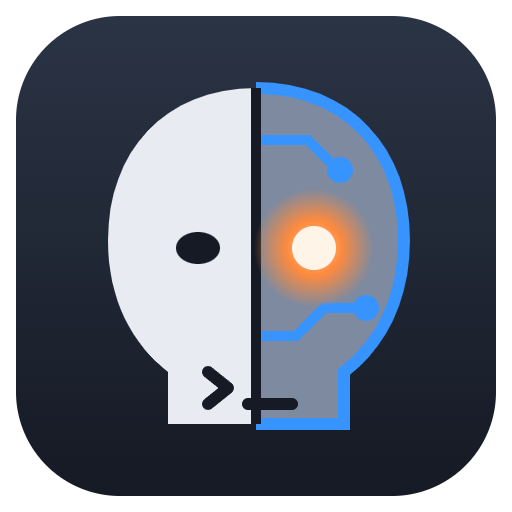
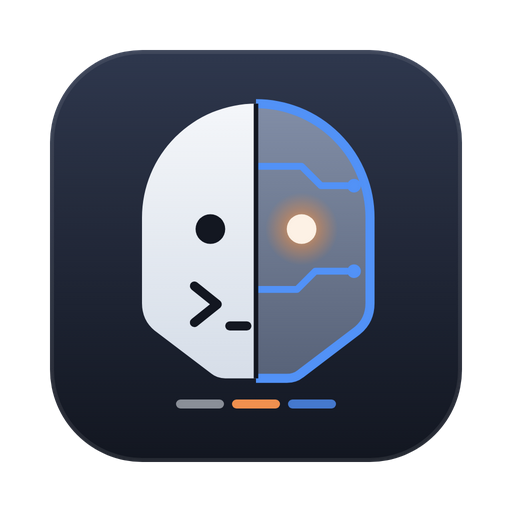
Значок Cyborg: симметричный, на строгой сетке
Прежний значок был несимметричным и неровным. Новый: плитка в стиле macOS, голова с куполом - точной
полуокружностью и зеркальными гранями; левая половина - человек с приглашением терминала, правая - машина со
схемой и светящимся глазом цвета Claude; три вкладки внизу - параллельные сессии в одном окне. Читается от
1024 до 32 пикселей. assets/icon.png - рендер 512 с прозрачными углами, og-картинка сайта пересоздана.

diff --git a/docs/01-product/06-docs-site/decision-log.md b/docs/01-product/06-docs-site/decision-log.md
@@ -16,3 +16,4 @@ date: 2026-10-26
 | D-03 | Без скриншотов и без лицензии: скриншот оператор отложил, лицензии в репозитории нет, выбор за владельцем; бейджа лицензии в README нет | демо-скриншот на постановочных данных; бейдж лицензии без файла | сообщение оператора «скриншота пока не надо» | принято |
 | D-04 | Страницы сайта не берут из корпуса BRD/SRS: корпус - требования и решения для разработки, сайт - справка пользователю; из корпуса идут только факты и ссылка на `docs/` | публиковать корпус как сайт | прогон | открыто |
 | D-05 | Диаграмма устройства: Mermaid в README (GitHub рендерит), текстовая схема на сайте (Starlight Mermaid не рисует) | компонент-диаграмма как в ai-kit (`LayersDiagram.astro`): объём вне запроса | прогон | принято |
+| D-06 | Значок перерисован: плитка в стиле macOS, симметричная голова (купол - точная полуокружность), левая половина - человек с приглашением терминала `>_`, правая - машина со схемой и светящимся глазом цвета Claude, три «вкладки» внизу - параллельные сессии в одном окне (средняя активна). Исходник - `assets/icon.svg`, `assets/icon.png` - его рендер 512 пикселей с прозрачными углами, `site/public/og.png` пересоздан из него | поправка прежнего значка: череп был несимметричен и неровен | запрос оператора: красиво, ровно, не криво, отражает суть | принято |
